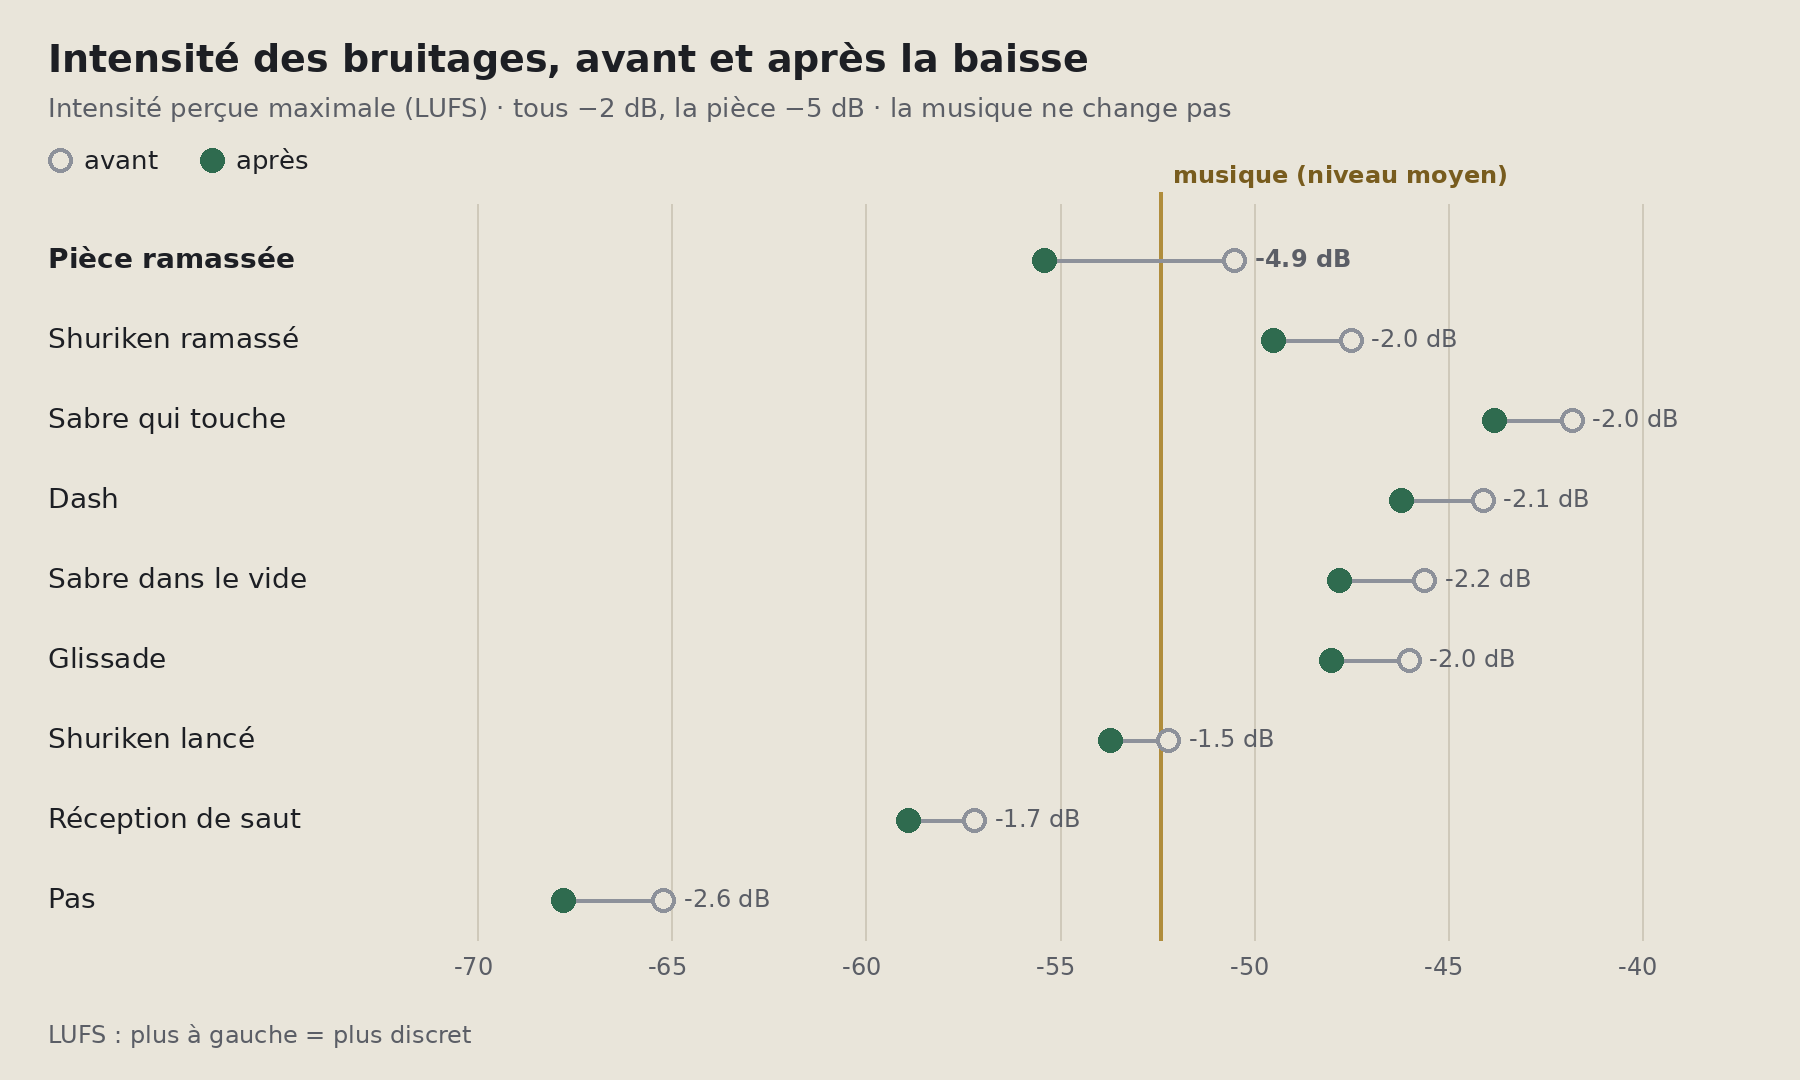
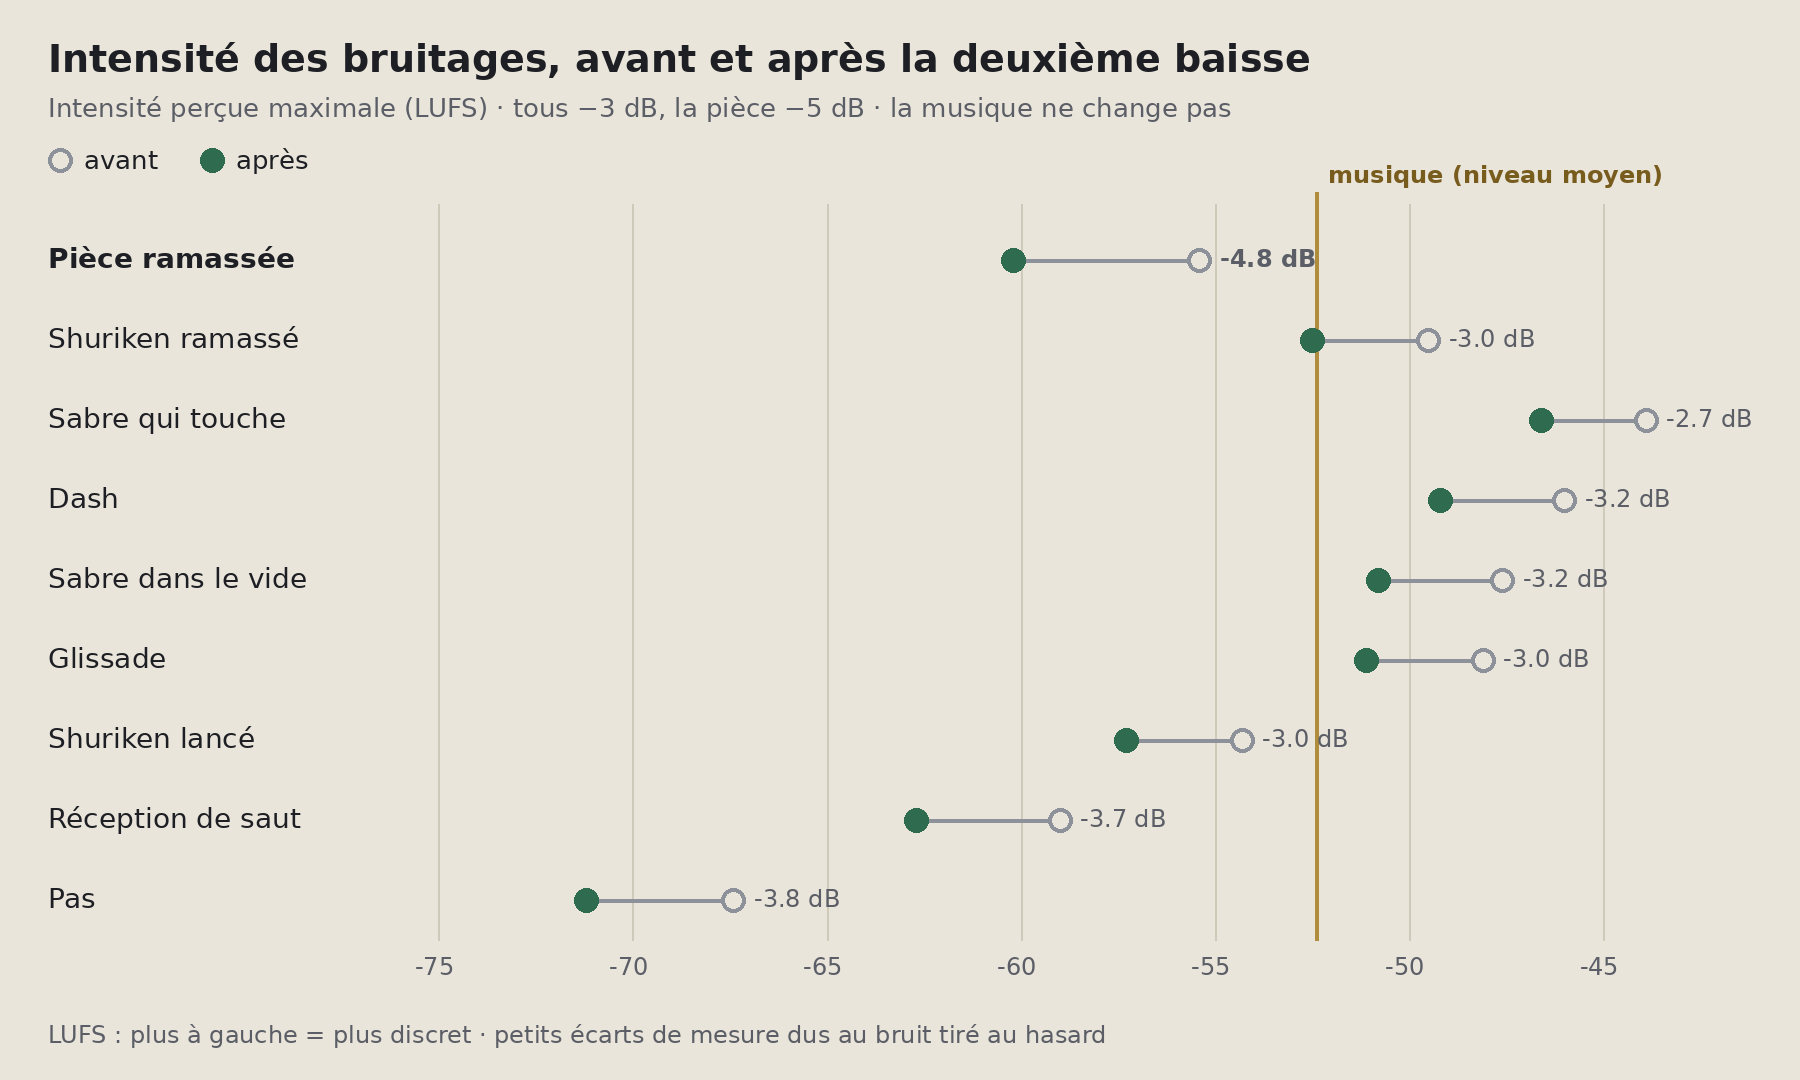
Bruitages encore baissés : tous −3 dB, la pièce −5 dB (#15)
- Volume général des bruitages 0,28 → 0,198 (−3 dB).
- Pièce ramassée : −5 dB (les 3 dB généraux + 2 dB propres).
- Depuis l'origine : bruitages −5 dB, pièce −10 dB. La musique ne change pas.

Claude-Session: https://claude.ai/code/session_01A2iwx6Kzj9M8dwN4UqDgAg

diff --git a/src/engine/sfx.js b/src/engine/sfx.js
@@ -5,7 +5,7 @@
 let ac = null;
 let master = null;
 let noiseBuf = null;
-const SFX_VOLUME = 0.28;   // volume général des bruitages (0,35 avant : « légèrement trop forts », −2 dB)
+const SFX_VOLUME = 0.198;  // volume général des bruitages (0,35 à l'origine, puis −2 dB, puis encore −3 dB à la demande de l'utilisateur)
 let muted = false;
 let out = null;
 let musicBus = null;   // la musique a son propre circuit (même bouton « Son »)   // destination des sons de l'appel en cours (master, ou un gain selon la distance)
@@ -201,8 +201,8 @@ const SOUNDS = {
   kick: () => noise({ dur: 0.1, vol: 0.08, f: 1800, to: 700, q: 1.3, attack: 0.01 }),
   breath: () => noise({ dur: 0.22, vol: 0.05, type: 'bandpass', f: 1300, to: 600, q: 0.7, attack: 0.03 }),
   enemyFall: () => tone({ f: 520, to: 160, dur: 0.45, type: 'triangle', vol: 0.05, attack: 0.02 }),
-  // pièce ramassée : baissée de 3 dB en plus du volume général (elle ressortait trop)
-  coin: () => { tone({ f: 1568, dur: 0.05, type: 'square', vol: 0.024 }); tone({ f: 2093, dur: 0.09, type: 'square', vol: 0.021, delay: 0.05 }); },
+  // pièce ramassée : baissée de 5 dB en plus du volume général (elle ressortait trop)
+  coin: () => { tone({ f: 1568, dur: 0.05, type: 'square', vol: 0.0191 }); tone({ f: 2093, dur: 0.09, type: 'square', vol: 0.0167, delay: 0.05 }); },
   crate: () => { noise({ dur: 0.14, vol: 0.14, type: 'lowpass', f: 900, to: 300 }); tone({ f: 180, to: 90, dur: 0.1, type: 'triangle', vol: 0.06 }); },
   bell: () => { tone({ f: 1760, dur: 0.5, type: 'sine', vol: 0.05, attack: 0.002 }); tone({ f: 2637, dur: 0.35, type: 'sine', vol: 0.025, attack: 0.002 }); },
   kickHit: () => { noise({ dur: 0.08, vol: 0.16, type: 'lowpass', f: 700 }); tone({ f: 120, to: 70, dur: 0.09, type: 'sine', vol: 0.12 }); },

diff --git a/docs/REPRISE.md b/docs/REPRISE.md
@@ -191,7 +191,7 @@ Demande de l'utilisateur : un Potager « riche et paisible », au niveau des jeu
 - **Pas** : ils ne suivaient pas la course (le contrôle se faisait avant l'avancée de l'animation : un seul pas en entrant dans la course). Maintenant un pas à chaque appui du cycle, seulement au sol et en mouvement, légèrement varié ; rien à l'arrêt.
 - **« Les pas tournent en boucle même à l'arrêt »** (remarque de l'utilisateur) : c'étaient les **ennemis hors de l'écran** (TATE qui marche à 450 cases, WARA qui sautillent), entendus à plein volume partout. Les sons des ennemis sont maintenant **pleins à l'écran et s'éteignent en ~7 cases au-delà du bord** (`earGain` / `sfxAt` dans `main.js`). Un test le vérifie (silence à l'arrêt, pas qui suivent la course).
 - Spectrogrammes avant / après : `docs/sons/spectres_sons.png`.
-- **Volume des bruitages** (retour de l'utilisateur : « légèrement trop forts, notamment le ramassage des pièces ») : volume général `SFX_VOLUME` 0,35 → 0,28 (−2 dB), pièce −3 dB de plus (−5 dB au total). La musique n'a pas bougé (circuit à part), l'utilisateur l'a validée. Graphique : `docs/sons/volume_bruitages.png`.
+- **Volume des bruitages** (retour de l'utilisateur : « légèrement trop forts, notamment le ramassage des pièces ») : volume général `SFX_VOLUME` 0,35 → 0,28 (−2 dB), pièce −3 dB de plus (−5 dB au total) ; puis deuxième demande (« baisse encore tous les effets de 3 dB et les pièces de 5 dB ») : `SFX_VOLUME` 0,28 → 0,198 (−3 dB), pièce −5 dB (les 3 dB généraux + 2 dB propres). Depuis l'origine : bruitages −5 dB, pièce −10 dB. La musique n'a pas bougé (circuit à part), l'utilisateur l'a validée. Graphique : `docs/sons/volume_bruitages.png`.
 - **Banc d'écoute** (page claude.ai privée, avant / après) : <https://claude.ai/artifact/PZ5fAyEtafMpjNeH3yqnLp>, régénéré par un petit script à partir de l'ancien et du nouveau `sfx.js`.
 - **Musique** : une par chapitre (demande de l'utilisateur). **Le Potager a la sienne** (`assets/music/potager.mp3`), tirée d'une vidéo fournie par l'utilisateur (enregistrement d'écran d'iPhone, 2 min 16 s, fin coupée net) :
   - tempo **64 BPM** ; la section entendue à 25,34 s est rejouée à l'identique (musicalement, pas à l'échantillon) 90 s plus loin, soit 24 mesures. D'où une **introduction de 25 s jouée une fois**, puis une **boucle de 90 s** (repères `loopStart` 25,09 s, `loopEnd` 115,089 s dans le fichier) ;
